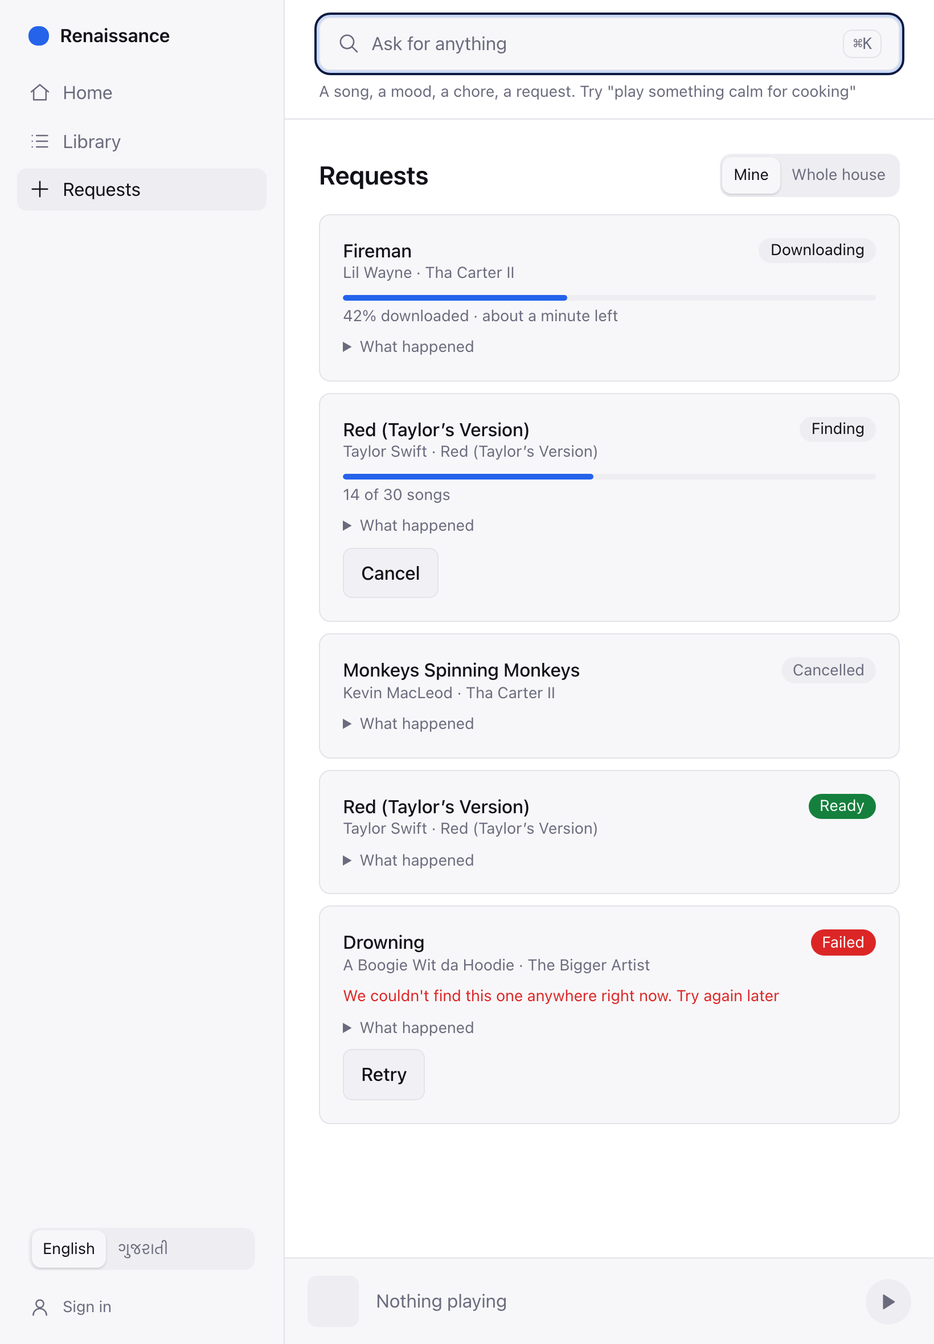
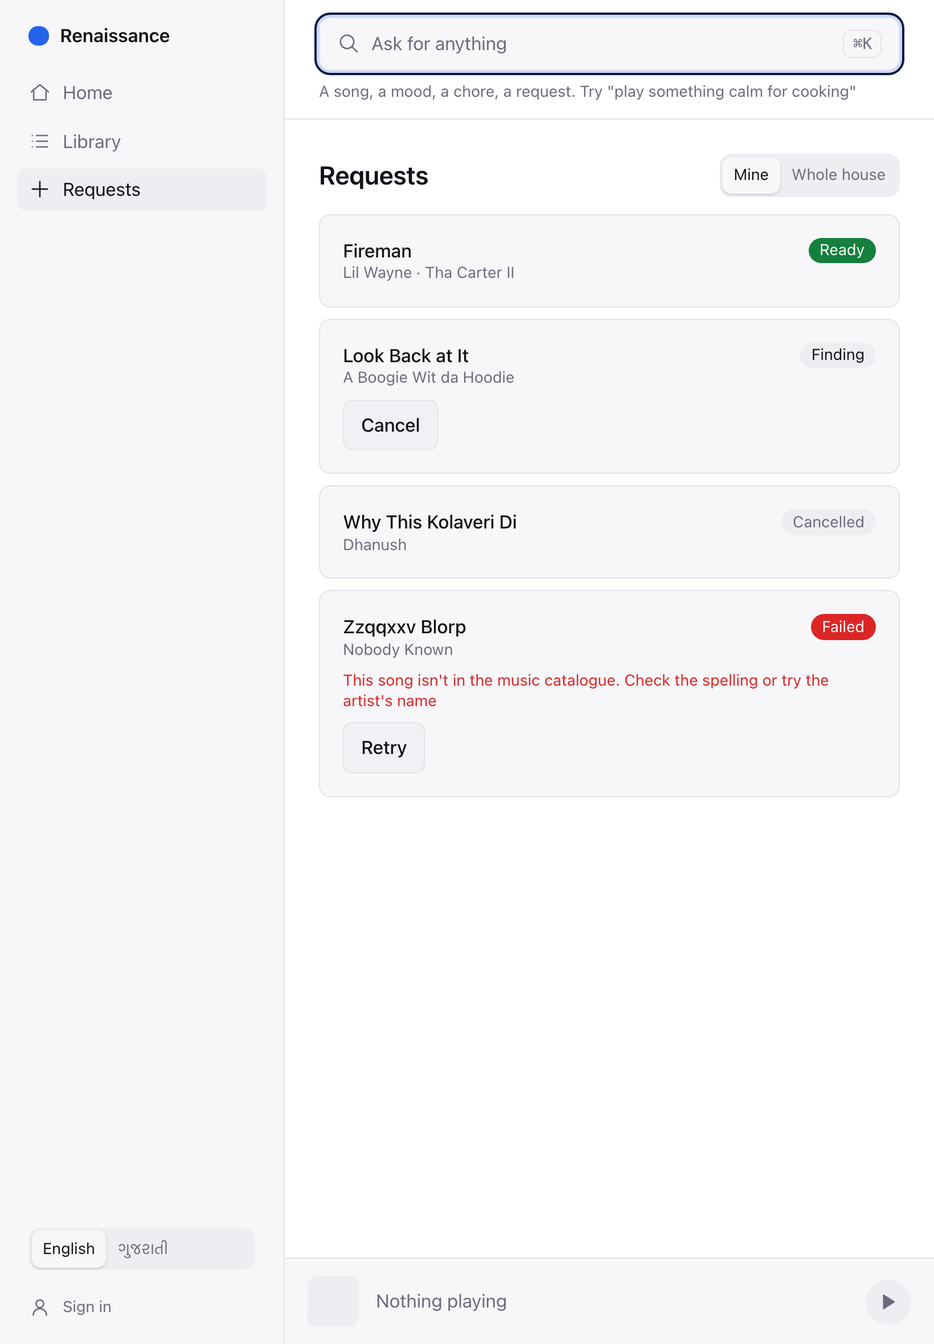
docs(hub): round 2 rework in hub-api, the ADRs, the changeset and real-hub screenshots
The phase 2 screenshots are retaken against the hub itself in dry-run mode (requests seeded through
the API, nothing mocked, nothing downloaded), with four new captures: the Add outcome on its own
line in both languages and a sentence with the model off in both languages.

diff --git a/docs/hub-api.md b/docs/hub-api.md
@@ -52,7 +52,9 @@ from `apps/hub/package.json` beside the built code, so the container reports its
 
 ```sh
 curl -s http://localhost:8787/health
-# {"status":"ok","service":"renaissance-hub","version":"0.0.1"}
+# {"status":"ok","service":"renaissance-hub","version":"0.0.1","database":"ok"}
+# 503 {"status":"degraded",...,"database":"error"} when the hub's own database refused its last write
+# (a read-only volume, a full disk): the container health check fails and the problem is seen.
 curl -s http://localhost:8787/health -H "Authorization: Bearer $TOKEN"
 # ...,"integrations":{"environment":"development","jellyfin":true,"anthropic":false,"lidarr":true,
 #   "slskd":true,"navidrome":false,"intentModel":"claude-opus-5-5","budgetUsdPerMonth":10,...}
@@ -70,11 +72,23 @@ curl -s -X POST http://localhost:8787/me -H "Authorization: Bearer $TOKEN" \
 
 ## `GET /catalogue/search?q=` (F61)
 
-Typeahead for the one search box: songs, artists and albums for the words typed, from MusicBrainz
-(recordings and release groups, one request a second with a `User-Agent` naming the app and
-`RENAISSANCE_CONTACT`), with cover art and 30-second previews from Deezer and a Cover Art Archive
-URL where Deezer has nothing. Not an LLM. Answers are cached in SQLite for a day. Songs already on
-the server carry `libraryId` and come first. `q` is 2 to 200 characters.
+Typeahead for the one search box: songs, artists and albums for the words typed. Two speeds. The
+typeahead never waits for MusicBrainz (one request a second for the whole house): it answers from
+the cache when the words were looked up before, else from Deezer alone (tracks plus an album
+search; art, previews, durations; no MusicBrainz ids, `partial: true`, ten-minute cache). A full
+search (Enter, the model's context) asks MusicBrainz (recordings and release groups, with a
+`User-Agent` naming the app and `RENAISSANCE_CONTACT`), merges Deezer's art and previews, falls back
+to a Cover Art Archive URL, and is cached for a day. Not an LLM.
+
+Every list is ranked and pruned before it is answered: a row must cover the words typed (command
+words and filler such as "play", "get me", "for", "something" do not count; a prefix and one typo
+do match), the exact title and artist come first, and when the words read as a sentence (a command
+verb, or four or more words with filler among them) only a row that is the title itself survives.
+So "fireman lil wayne" puts Lil Wayne's Fireman first and drops the mixtapes named after him, and
+"play something calm for cooking" or "રસોઈ માટે શાંત ગીત વગાડ" show no rows at all; a long title
+("Kabhi Kabhie Mere Dil Mein") is not a sentence and keeps its exact row. Songs already on the
+server carry `libraryId` and come first; the rows' artists are looked up in Jellyfin too, so an
+artist query marks the songs the server has. `q` is 2 to 200 characters.
 
 ```sh
 curl -s "http://localhost:8787/catalogue/search?q=lil%20wayne%20fireman" -H "Authorization: Bearer $TOKEN"
@@ -122,12 +136,16 @@ curl -s "http://localhost:8787/catalogue/search?q=lil%20wayne%20fireman" -H "Aut
 }
 ```
 
-MusicBrainz allows one request a second, so the hub keeps the box live when the whole house types:
-identical in-flight queries share one call, a profile's older prefix still waiting is dropped when
-its newer letters arrive, and the queue is capped (16 waiting calls). Past the cap, or for a prefix
-that was replaced, the route answers `503 { "error": "busy" | "superseded" }` with `retry-after: 1`;
-the apps keep the rows they have and ask again for the current letters. Cached answers (24 h per
-query) skip the limiter altogether.
+Deezer allows about 50 requests per 5 seconds per address, so its calls go through a limiter of
+their own (one every 100 ms): identical in-flight queries share one call (each caller with its own
+promise, so one typist moving on never fails another), a profile's older prefix still waiting is
+dropped when its newer letters arrive, and the queue is capped. Past the cap, or for a prefix that
+was replaced, the route answers `503 { "error": "busy" | "superseded" }` with `retry-after: 1`;
+the apps keep the rows they have and ask again for the current letters. A Deezer failure or quota
+error is answered as no rows but never cached, so the next keystroke asks again. MusicBrainz has
+the same limiter rules at one request a second, with one more: the pipeline's lookups for a request
+somebody made are never refused as busy and take the next slot ahead of the typing, and when the
+queue is full `/ask` answers with the Deezer rows instead of none.
 
 ## Requests (F61, F62, F63, F87)
 
@@ -145,8 +163,23 @@ pipeline (`apps/hub/src/fetch/pipeline.ts`) runs one request at a time:
 | `cancelled`   | Stopped by the person who asked (or an admin) while `requested` or `finding`; no reason, no retry                                                                                                                        |
 
 Album requests stay `finding` with `progress: { unit: "songs", done, total }` while Lidarr looks, and
-fail with `not_found_in_time` after `RENAISSANCE_ALBUM_DEADLINE_DAYS` (default 7); the album is then
-unmonitored in Lidarr.
+fail with `not_found_in_time` after `RENAISSANCE_ALBUM_DEADLINE_DAYS` (default 7), counted from the
+last time the request was made (a retry starts the clock again); the album is then unmonitored in
+Lidarr. Every ten minutes the poll also lists Lidarr's import candidates in the download folder
+(`RENAISSANCE_LIDARR_DOWNLOADS_DIR`, and `RENAISSANCE_LIDARR_FAILED_IMPORTS_DIR` when soularr parks
+refused files elsewhere): files soularr fetched that Lidarr's automatic import refused ("Has missing
+tracks" against another edition) are mapped to the monitored release's tracks and filed with the
+same explicit `ManualImport` the single path uses; files that arrived but match no track fail the
+request with `import_failed` within the hour, not after seven days.
+
+A request records `matched: { title, artist }` when the catalogue resolved the words typed to a
+song with another spelling or credit (a Deezer row with no MusicBrainz ids yet); the apps show it
+("Will arrive as Fireman by Lil Wayne") and the pipeline searches for and maps that song. A
+caller's `duration` is kept as given and picks the version meant; the lookup itself never settles
+for a live take, a remix or a demo of a plain title (MusicBrainz's own note on the recording, or
+every release being a live album, rules it out unless the words asked for it), and a title that is
+not the same song once "feat." and edition tags are stripped is a `catalogue_miss` rather than a
+stand-in.
 
 Every status change is a row in `steps` (`at`, `status`, `reason`, `detail`), so the Requests tab can
 show (in advanced mode and to admins) what the pipeline tried: the queries and how many files each
@@ -203,8 +236,11 @@ curl -s "http://localhost:8787/requests?scope=house" -H "Authorization: Bearer $
 song or album is already on the server (F86), the hub answers `200` with
 `{ "alreadyHere": true, "item": <collection item> }` and nothing is downloaded. If the same song or
 album (same `recordingId` or `releaseGroupId`, else the same title and artist) is already being
-fetched for anyone in the house, the hub answers `200` with that request instead of starting a
-second one.
+fetched for anyone in the house, the hub answers `200` with
+`{ "alreadyRequested": true, "request": <the running request> }` instead of starting a second one,
+and the caller becomes one of its `watchers`: the request is in their `GET /requests`, every change
+and the `ready` event reach them over `GET /events`, and the item lands in their collection too.
+Only the asker (or an admin) can cancel or retry it.
 
 ```sh
 # 201: a request from a catalogue entry
@@ -216,19 +252,25 @@ curl -s -X POST http://localhost:8787/requests -H "Authorization: Bearer $TOKEN"
 curl -s -X POST http://localhost:8787/requests -H "Authorization: Bearer $TOKEN" \
   -H 'content-type: application/json' -d '{"kind":"track","title":"Fireman","artist":"Lil Wayne"}'
 
-# 200 alreadyHere when the library has it; 200 with the running request when it is already on its way;
-# 400 on a missing artist or a title over 200 characters
+# 200 alreadyHere when the library has it; 200 alreadyRequested with the running request when it is
+# already on its way; 400 on a missing artist or a title over 200 characters
 ```
 
 ### `GET /requests/:id`
 
-One request, own or (admins) anyone's; `404 {"error":"not_found"}` otherwise.
+One request, own, watched, or (admins) anyone's; `404 {"error":"not_found"}` otherwise.
 
 ### `DELETE /requests/:id`
 
-Cancel. Allowed while `requested` or `finding` (the undo of an Ask bar `request` action); `409
-{"error":"too_late"}` once the download has started. The request becomes `cancelled` (its own
-status, no reason); an album is unmonitored in Lidarr, best effort, and the detail says so.
+Cancel. Allowed while `requested` or `finding` (the undo of an Ask bar `request` action). The
+request becomes `cancelled` (its own status, no reason); an album is unmonitored in Lidarr, best
+effort, and the detail says so. The write is conditional (`UPDATE … WHERE status IN ('requested',
+'finding')`): a poll or a step that finished while Lidarr was being told loses nothing. Answers:
+`200` with the row (also for a request already cancelled: pressing Undo twice is fine);
+`409 {"error":"too_late"}` once the download has started; `409 {"error":"not_active"}` for a
+request that already finished (`ready` or `failed`); `404` for someone else's. An album cancelled
+while the pipeline was still adding it to Lidarr is unmonitored by the pipeline itself once the
+add lands, so soularr never fetches it.
 
 ### `POST /requests/:id/retry`
 
@@ -412,6 +454,8 @@ for i in 1 2 3; do curl -s -o /dev/null -w '%{http_code}\n' http://localhost:878
 | 413  | Body over Fastify's 1 MiB default                                          |
 | 415  | A content type the hub has no parser for (anything but JSON or plain text) |
 | 429  | More requests than the per-address limit in a minute                       |
+| 500  | `storage_error`: the hub's own database refused a read or write            |
+| 503  | `jellyfin_unreachable`: Jellyfin did not answer the token check            |
 
 ## The web app
 
@@ -428,8 +472,18 @@ open "http://localhost:5173/requests?hubToken=$TOKEN"
 The Requests tab lists the caller's requests live over `GET /events`, with cancel and retry and an
 admin "Whole house" switch; Library's "Mine" is `GET /collection`; the Ask bar calls
 `GET /catalogue/search` as the user types (250 ms after the last letter, the previous call aborted)
-and shows the rows with Add and Play, then sends Enter to `POST /ask?stream=1` and shows the library
-hits, the catalogue rows, the action cards with undo and the one-line why.
+and shows the rows with Add (the first one primary) and Play, then sends Enter to `POST /ask?stream=1`
+and shows the action cards with undo and the one-line why first, the library hits and the catalogue
+rows under them; the typeahead's rows are cleared by every answer. Add says what happened on its own
+line under the title ("Requested. Progress is in Requests", "Already on its way, asked by Mom"), and
+an undo that does not take says so truthfully ("Couldn't undo that. The request is still in
+Requests"; "Too late, it is already downloading. It stays in Requests"). The pipeline's `detail`
+lines are shown in advanced mode only, and stay in English; the Gujarati panel says so.
+
+`apps/web/e2e/hub.spec.ts` drives a real page against the real hub (`apps/hub/scripts/e2e-hub.mjs`:
+the server in dry-run mode in front of stand-ins for every outside service), adding a song, undoing
+it and cancelling it through the browser's own DELETE requests, so the CORS preflight is tested
+where it matters.
 
 ## The request CLI and dry runs
 
@@ -450,27 +504,28 @@ Environment variables only (`apps/hub/.env.example` lists every one; `docker/hub
 the TrueNAS layout). Nothing is read from a file except `.env` through Node's own
 `--env-file-if-exists` and the SQLite database.
 
-| Variable                              | Default               | Meaning                                                                            |
-| ------------------------------------- | --------------------- | ---------------------------------------------------------------------------------- |
-| `RENAISSANCE_HUB_HOST`, `_PORT`       | `0.0.0.0`, `8787`     | Where to listen                                                                    |
-| `RENAISSANCE_HUB_CORS_ORIGINS`        | dev: `localhost:5173` | Browser origins, comma separated; empty in production: same origin                 |
-| `RENAISSANCE_HUB_TRUST_PROXY`         | `false`               | Trust `x-forwarded-for` behind a reverse proxy                                     |
-| `RENAISSANCE_HUB_RATE_LIMIT`          | `120`                 | Requests a minute per client address; 0 off                                        |
-| `RENAISSANCE_HUB_DB`                  | `./data/hub.sqlite`   | The household database; `:memory:` keeps nothing                                   |
-| `RENAISSANCE_HUB_ADMINS`              | empty                 | Jellyfin user names or ids who see the whole house; empty: Jellyfin administrators |
-| `RENAISSANCE_BUDGET_USD_MONTH`        | `10`                  | Household model spend a month; the model turns off when reached; 0 off             |
-| `RENAISSANCE_HUB_DRY_RUN`             | `false`               | Log writes to slskd, Lidarr, Navidrome, Jellyfin instead of sending                |
-| `RENAISSANCE_ALBUM_DEADLINE_DAYS`     | `7`                   | Days an album request waits on Lidarr before `not_found_in_time`                   |
-| `RENAISSANCE_LIDARR_DOWNLOADS_DIR`    | `/downloads/complete` | slskd's completed folder as Lidarr's container sees it                             |
-| `RENAISSANCE_CONTACT`                 | repo URL              | MusicBrainz `User-Agent` contact                                                   |
-| `JELLYFIN_URL`, `JELLYFIN_API_KEY`    |                       | Token checks (`/Users/Me`), library lookups, `Library/Refresh`                     |
-| `ANTHROPIC_API_KEY`                   |                       | Optional; without it `/ask` is `model: "off"`                                      |
-| `ANTHROPIC_INTENT_MODEL`              | `claude-opus-5-5`     | The intent engine's model                                                          |
-| `ANTHROPIC_ENRICHMENT_MODEL`          | `claude-haiku-5-5`    | Phase 4 enrichment batches                                                         |
-| `LIDARR_URL`, `LIDARR_API_KEY`        |                       | Artists, albums, `ManualImport`, `RefreshArtist`                                   |
-| `LIDARR_ROOT_FOLDER`                  | Lidarr's first        | Root folder for new artists                                                        |
-| `SLSKD_URL`, `SLSKD_API_KEY`          |                       | Soulseek search and downloads                                                      |
-| `NAVIDROME_URL`, `_USER`, `_PASSWORD` |                       | Optional `startScan` after an import                                               |
+| Variable                                | Default               | Meaning                                                                                                  |
+| --------------------------------------- | --------------------- | -------------------------------------------------------------------------------------------------------- |
+| `RENAISSANCE_HUB_HOST`, `_PORT`         | `0.0.0.0`, `8787`     | Where to listen                                                                                          |
+| `RENAISSANCE_HUB_CORS_ORIGINS`          | dev: `localhost:5173` | Browser origins, comma separated; empty in production: same origin                                       |
+| `RENAISSANCE_HUB_TRUST_PROXY`           | `false`               | Trust `x-forwarded-for` behind a reverse proxy                                                           |
+| `RENAISSANCE_HUB_RATE_LIMIT`            | `120`                 | Requests a minute per client address; 0 off                                                              |
+| `RENAISSANCE_HUB_DB`                    | `./data/hub.sqlite`   | The household database; `:memory:` keeps nothing                                                         |
+| `RENAISSANCE_HUB_ADMINS`                | empty                 | Jellyfin user names or ids who see the whole house; empty: Jellyfin administrators                       |
+| `RENAISSANCE_BUDGET_USD_MONTH`          | `10`                  | Household model spend a month; the model turns off when reached; 0 off                                   |
+| `RENAISSANCE_HUB_DRY_RUN`               | `false`               | Log writes to slskd, Lidarr, Navidrome, Jellyfin instead of sending                                      |
+| `RENAISSANCE_ALBUM_DEADLINE_DAYS`       | `7`                   | Days an album request waits on Lidarr before `not_found_in_time`                                         |
+| `RENAISSANCE_LIDARR_DOWNLOADS_DIR`      | `/downloads/complete` | slskd's completed folder as Lidarr's container sees it (soularr's `failed_imports` under it is read too) |
+| `RENAISSANCE_LIDARR_FAILED_IMPORTS_DIR` | empty                 | Where soularr parks refused files when it is not under the folder above, as Lidarr sees it               |
+| `RENAISSANCE_CONTACT`                   | repo URL              | MusicBrainz `User-Agent` contact                                                                         |
+| `JELLYFIN_URL`, `JELLYFIN_API_KEY`      |                       | Token checks (`/Users/Me`), library lookups, `Library/Refresh`                                           |
+| `ANTHROPIC_API_KEY`                     |                       | Optional; without it `/ask` is `model: "off"`                                                            |
+| `ANTHROPIC_INTENT_MODEL`                | `claude-opus-5-5`     | The intent engine's model                                                                                |
+| `ANTHROPIC_ENRICHMENT_MODEL`            | `claude-haiku-5-5`    | Phase 4 enrichment batches                                                                               |
+| `LIDARR_URL`, `LIDARR_API_KEY`          |                       | Artists, albums, `ManualImport`, `RefreshArtist`                                                         |
+| `LIDARR_ROOT_FOLDER`                    | Lidarr's first        | Root folder for new artists                                                                              |
+| `SLSKD_URL`, `SLSKD_API_KEY`            |                       | Soulseek search and downloads                                                                            |
+| `NAVIDROME_URL`, `_USER`, `_PASSWORD`   |                       | Optional `startScan` after an import                                                                     |
 
 Secrets (`*_API_KEY`, `NAVIDROME_PASSWORD`) are typed as secrets: `describe()` reports presence
 only, request logging is off, error messages carry a path but never a query string or header. The

diff --git a/docs/adr/0009-household-database-and-per-profile-collections.md b/docs/adr/0009-household-database-and-per-profile-collections.md
@@ -61,3 +61,31 @@ folder, which would mean one folder per person and duplicate files.
 - The "House" profile for the living-room speaker (plan.md, Profiles rule 5) is a union query over
   `collection`; it is not built in phase 2.
 - Backups: the one file under `/data` in the container (docker/hub/compose.yml).
+
+## Addendum, 2026-11-18 (phase 2 rework round 2)
+
+9. **Watchers.** A request for a song or album someone else is already fetching does not start a
+   second one and does not leave the second asker out either: `POST /requests` answers
+   `{ alreadyRequested: true, request }` and records the caller in `request_watchers`. A watcher
+   sees the request in their own list, hears every change and `ready` on their event stream, and
+   gets the item in their collection when it lands; only the asker (or an admin) can cancel or
+   retry it. (Functionality D, production W.)
+10. **The cancel is one conditional statement** (`UPDATE … WHERE status IN ('requested',
+'finding')`), so a poll or a pipeline step that finished during the cancel's Lidarr call wins
+    and the caller hears `too_late` (downloading) or `not_active` (finished); cancelling a cancelled
+    request is idempotent. An album cancelled while the pipeline was still adding it to Lidarr is
+    unmonitored by the pipeline itself once the add lands. (Production Q, U; functionality I.)
+11. **`matched`.** When the catalogue resolves the words typed to a recording with another spelling
+    or credit, the request stores `matched_title` and `matched_artist` and the apps show what will
+    arrive; the pipeline searches for and maps that song. A caller's duration is never overwritten.
+    (Production V; functionality A.)
+12. **The album deadline runs from the last `requested` step**, so a retry gets a full window, and
+    the album poll also files what soularr fetched but Lidarr refused: Lidarr's import candidates
+    in the download folder (and `RENAISSANCE_LIDARR_FAILED_IMPORTS_DIR`) that belong to the album
+    are mapped to the monitored release's tracks and imported with the explicit `ManualImport`;
+    files that match no track fail the request with `import_failed` within the hour. (Production S;
+    functionality E.)
+13. **Health reads the database.** The runner's minute tick is a write; when it fails `/health`
+    answers `503 degraded` so the container restarts and the fault is seen, and an authentication
+    failure caused by the hub's own database is a `500 storage_error`, not "Jellyfin unreachable".
+    (Functionality G.)

diff --git a/.changeset/phase-2-hub.md b/.changeset/phase-2-hub.md
@@ -16,3 +16,20 @@ admin whole-house view, the "already on the server" instant add and a duplicate 
 Events, the intent engine on claude-opus-5-5 with the eight strict tools and the never-invent check,
 the budget meter with reservations, a `hubClient` in core, the web Requests tab, "My music" and Ask
 bar answers, and a published container image (`ghcr.io/megaindian/renaissance-hub`).
+
+Round 2 rework: the hub's CORS preflight allows DELETE, so Cancel and every Undo work from a
+browser (tested with Playwright against the real hub); catalogue rows are ranked and pruned to the
+words typed (the exact title and artist first; a sentence such as "play something calm for cooking"
+shows no rows to add); the model-off answer and the typeahead never offer junk; a request someone
+else already made answers "already on its way, asked by Mom" with no undo and makes the second
+asker a watcher who gets Ready and the item too; the request card shows the song that will actually
+arrive when the catalogue corrected the words; cancels are conditional and answer truthfully (too
+late, already finished, or already cancelled); an album cancelled while Lidarr was adding it is
+unmonitored; the album deadline runs from the latest retry; the album poll files what soularr fetched
+but Lidarr refused; the song lookup never settles for a live take or a remix of a plain title and
+keeps the caller's duration; a "no live versions" rule sees the folder name; Deezer quota errors
+are never cached and Deezer calls are spaced; the pipeline's lookups are never refused as busy;
+`/health` reports the database and degrades when it refuses writes; the Add outcome sits on its own
+line under the title with truthful undo-failure wording; one primary Add per panel; broken cover art
+falls back to the placeholder; "What happened" is advanced mode only and says its lines are
+English in Gujarati; six Gujarati sentences reworded as a speaker would say them.

diff --git a/docs/adr/0010-intent-engine-fixed-tools-never-invent.md b/docs/adr/0010-intent-engine-fixed-tools-never-invent.md
@@ -68,3 +68,23 @@ tools on real data; this records how that is enforced in code rather than in a p
   and Wikipedia pages for F81 is phase 4+.
 - Phase 4 adds enrichment tags (`claude-haiku-5-5` through the Batch API) to the context, which is
   what makes "something calm" work; until then mood words fall back to what the library search finds.
+
+## Addendum, 2026-11-18 (phase 2 rework round 2)
+
+- **The catalogue rows answer the words, or are not shown.** Every catalogue list, in the typeahead
+  and in `/ask`, is ranked and pruned by token overlap (`apps/hub/src/catalogue/relevance.ts`): a
+  row must cover the content words of the query (command words and filler do not count; a prefix
+  and one typo match), the exact title and artist come first, and words that read as a sentence
+  (a command verb, or four or more words with filler among them) keep only a row that is the title
+  itself. With the model off a sentence therefore shows the model-off line and nothing to add,
+  and "Fireman Lil Wayne" never shows a DJ's "Lil Wayne Fireman" above Lil Wayne's Fireman. This is
+  deterministic text matching, not a model; the never-invent rule is untouched. (Design P, Q, X;
+  functionality B.)
+- **The catalogue is asked about the title inside the words** (`stripCommand`), with the caller as
+  the limiter's owner, and when the MusicBrainz queue is full the Deezer rows stand in rather than
+  none. The pipeline's own lookups are `vital`: never refused, next in line. (Functionality C.)
+- **A duplicate is worded as such.** A `request` the hub answers with `alreadyRequested` becomes
+  "Fireman by Lil Wayne is already on its way, asked by Mom" with `undoable: false`; the asker is a
+  watcher of that request (ADR 0009 addendum 9). (Production W.)
+- **Deezer is a source with a quota**, spaced through its own limiter; a failure or quota error is
+  never cached as "nothing found". (Production T; functionality F.)
